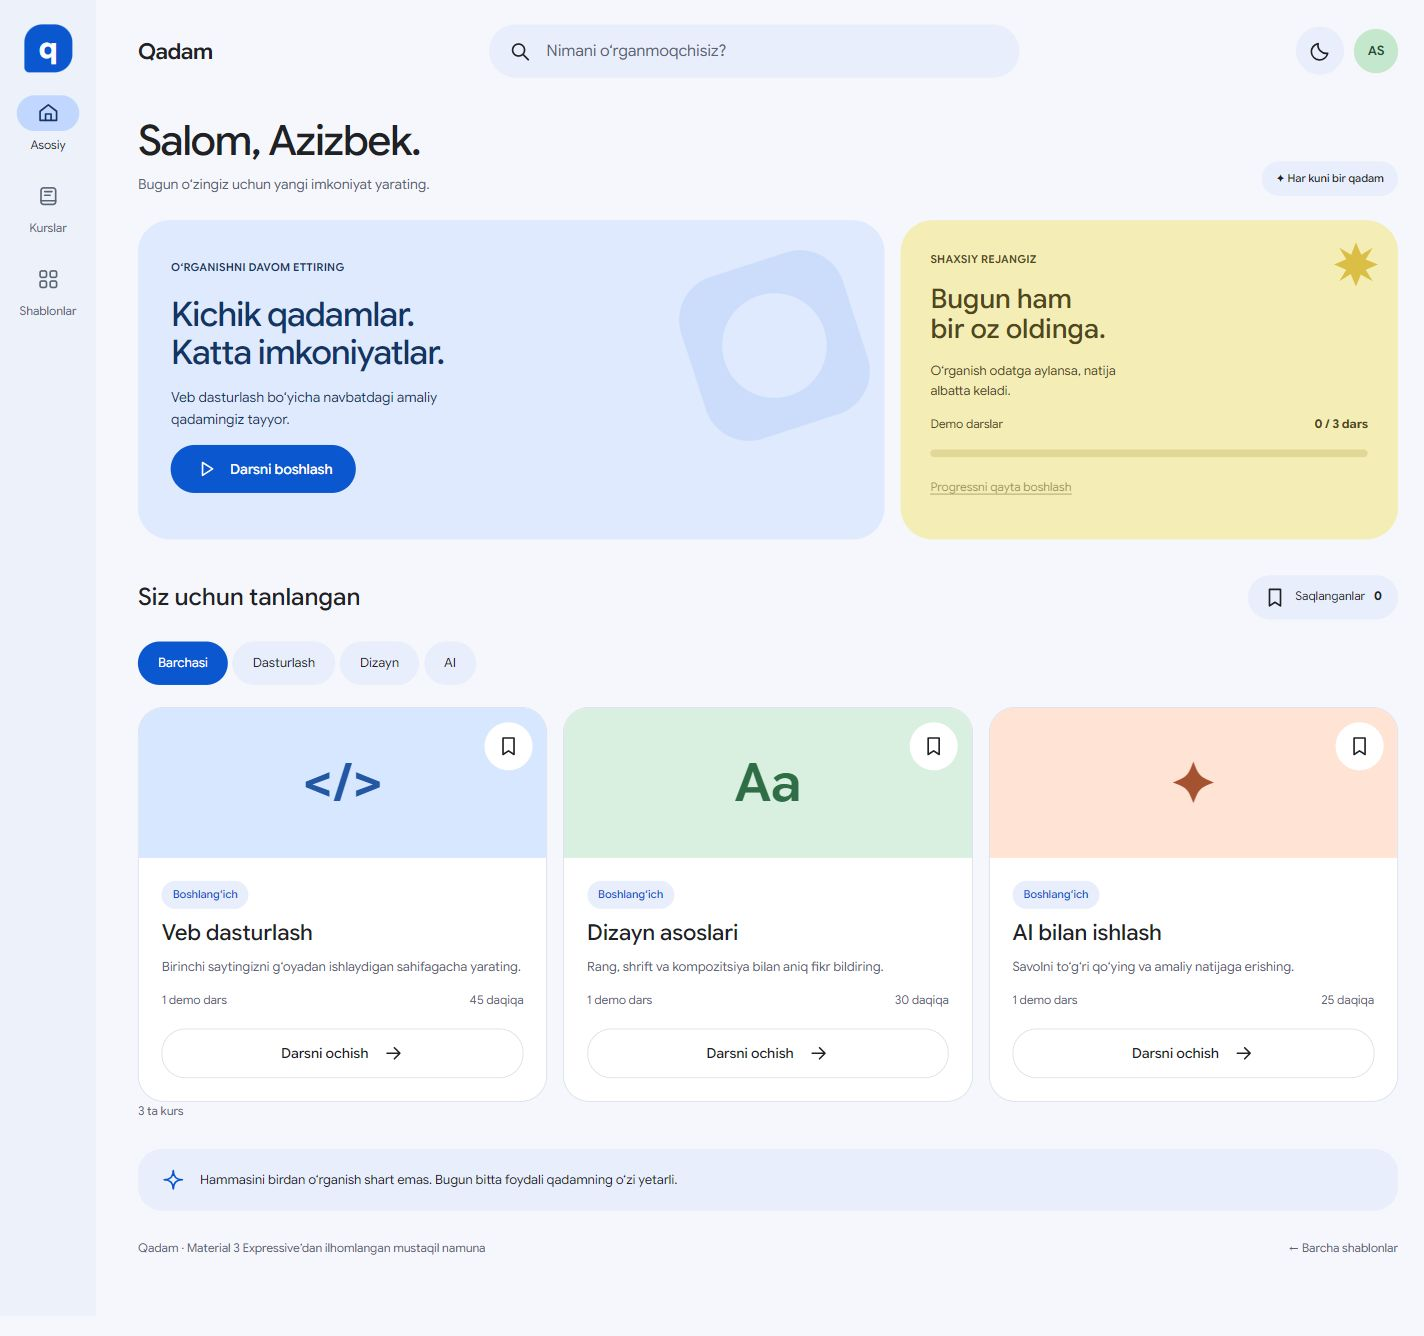
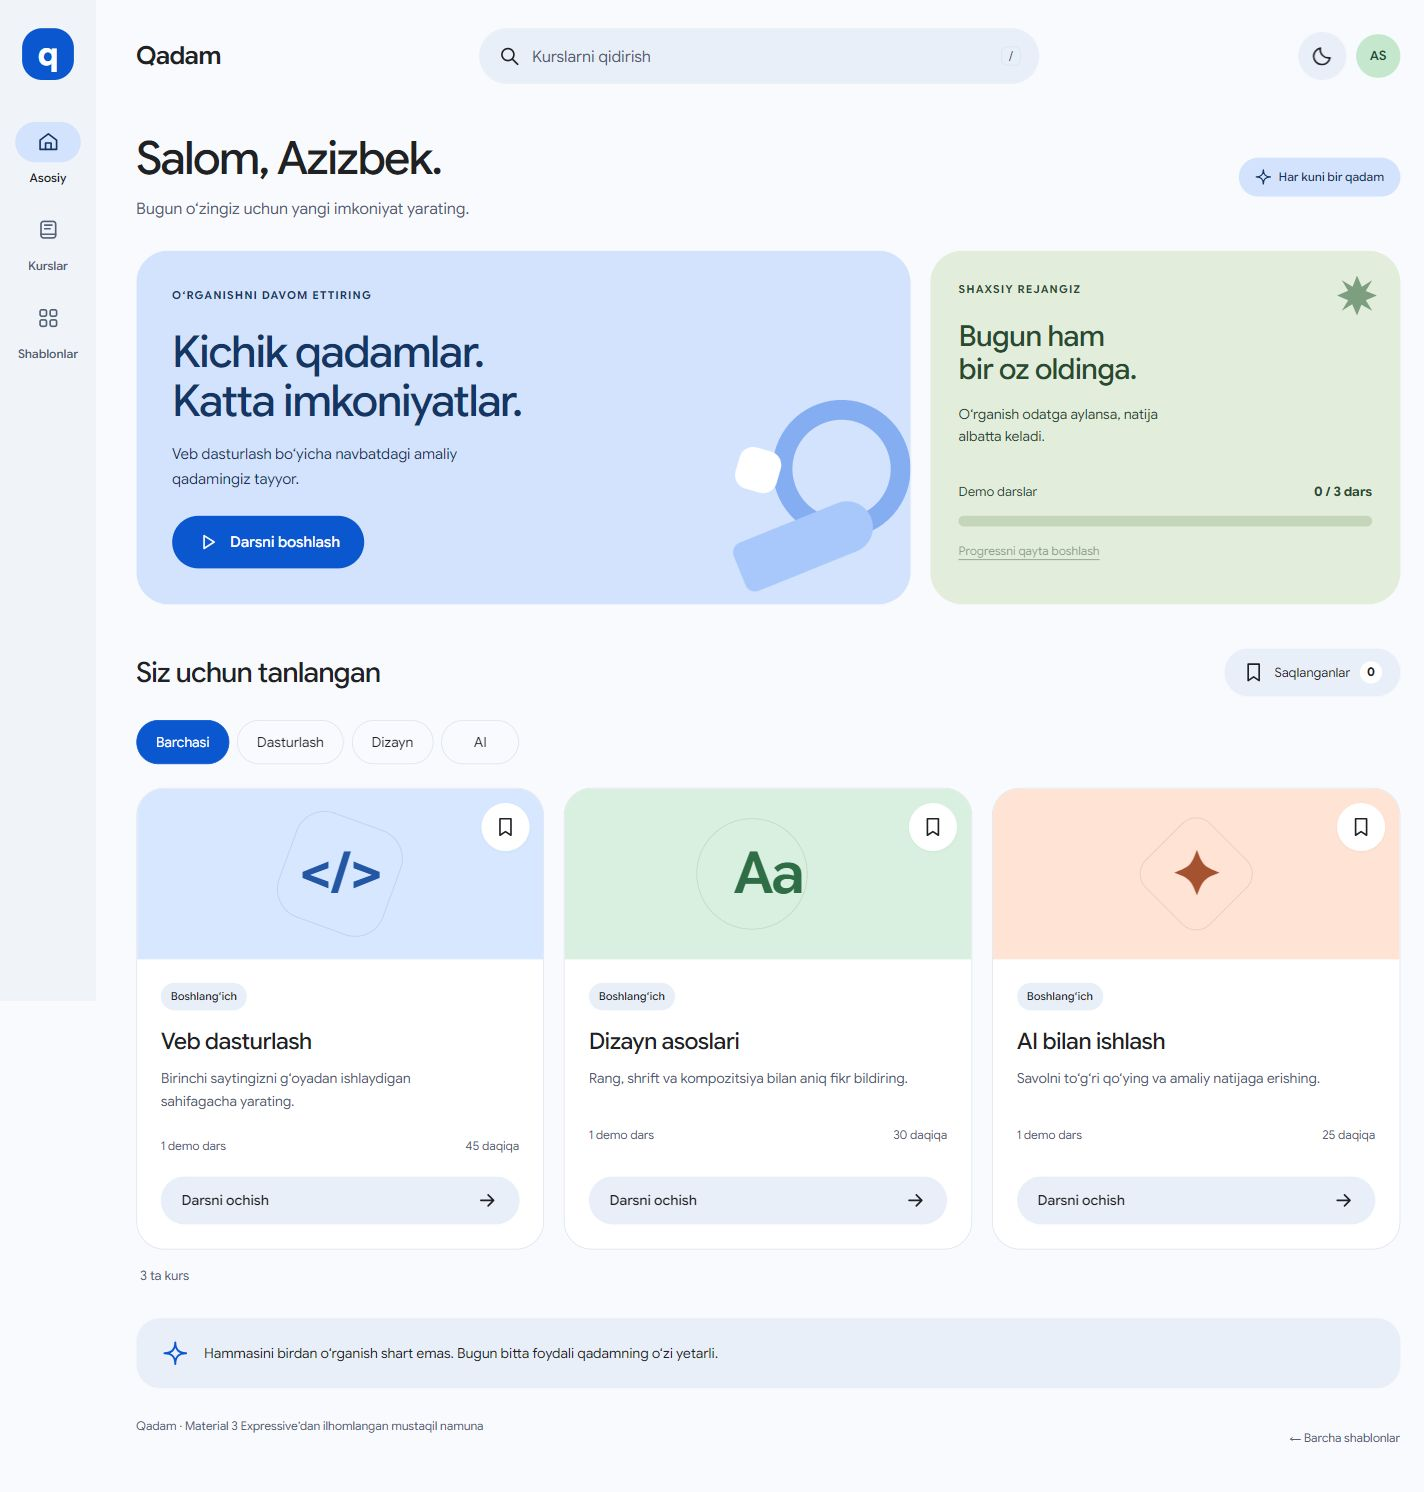
Refresh Qadam preview after live browser verification

diff --git a/design/QADAM-REFINEMENT.md b/design/QADAM-REFINEMENT.md
@@ -18,12 +18,12 @@ Selected direction: Qadam, the independent Google Material-inspired template.
 - Reset clears both lesson completion and partial steps. The hero continues to the next unfinished lesson.
 - Dialog focus returns to its opener.
 
-## Validation and limitation
+## Validation
 
 `node --check` passed for the updated scripts. `node verify-lesson-model.cjs` passed malformed-storage, partial-progress, completion gating, duplicate-completion, serialization, and reset checks. Local assets, anchors, ARIA references, unique IDs, CSS brace balance, and script order were checked.
 
-Browser inspection was blocked by the browser tool's URL security policy in this turn. The block was not bypassed. This revision has **not** received a new rendered desktop/mobile check; the 2026-10-10 screenshots and layout audit describe the earlier revision. Open `06-material.html` from the running local gallery to review the current design.
+The initial local browser inspection was blocked by the browser tool's URL security policy. After the user authorized publication, the live GitHub Pages revision received a rendered check on 2026-10-11 at 1440px desktop and 390px mobile widths. Search, saved-course filtering, dark mode, partial-step persistence after reload, completion gating, progress updates, and reset were verified through the interface. The mobile page had no horizontal document overflow and the browser reported no console errors. `previews/06.png` now shows the refined published design.
 
 Sources: `src/material.css`, `src/extra.js`, `src/lesson-model.js`, `extra_templates.py`. Regenerate with `python build_templates.py`.
 
-Forms and lessons remain local demonstrations; no publication or backend deployment was performed.
+All nine templates are published at https://azizbeksafarov.github.io/design/. Forms and lessons remain browser-local demonstrations without a backend.
